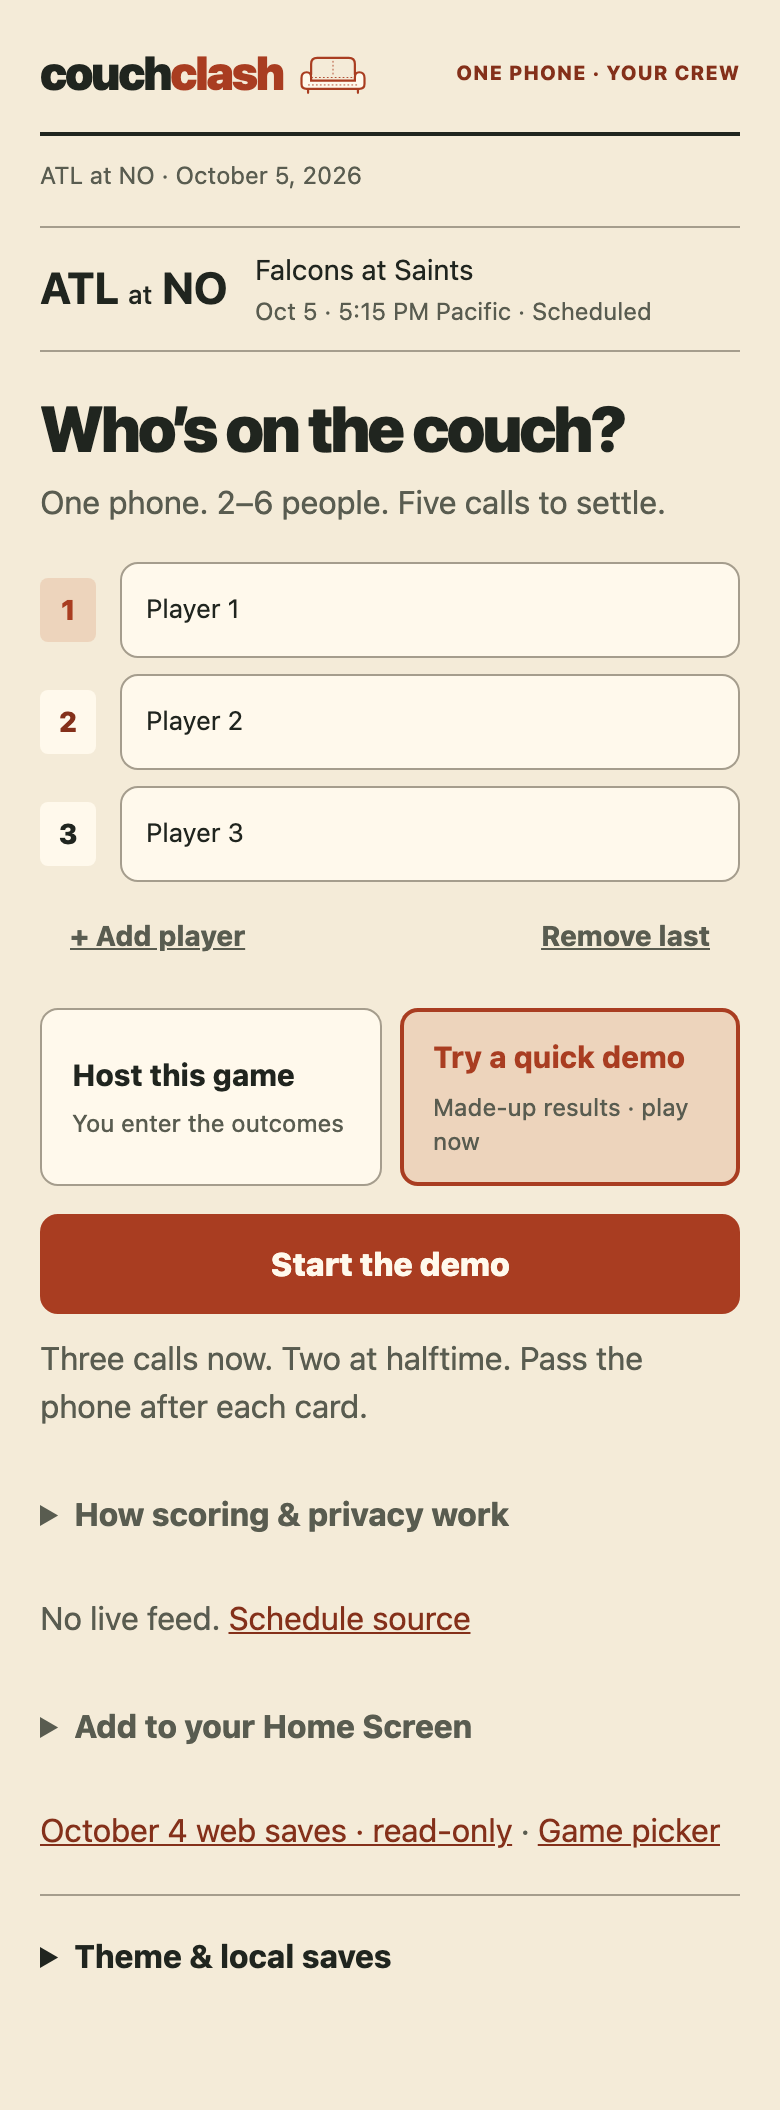
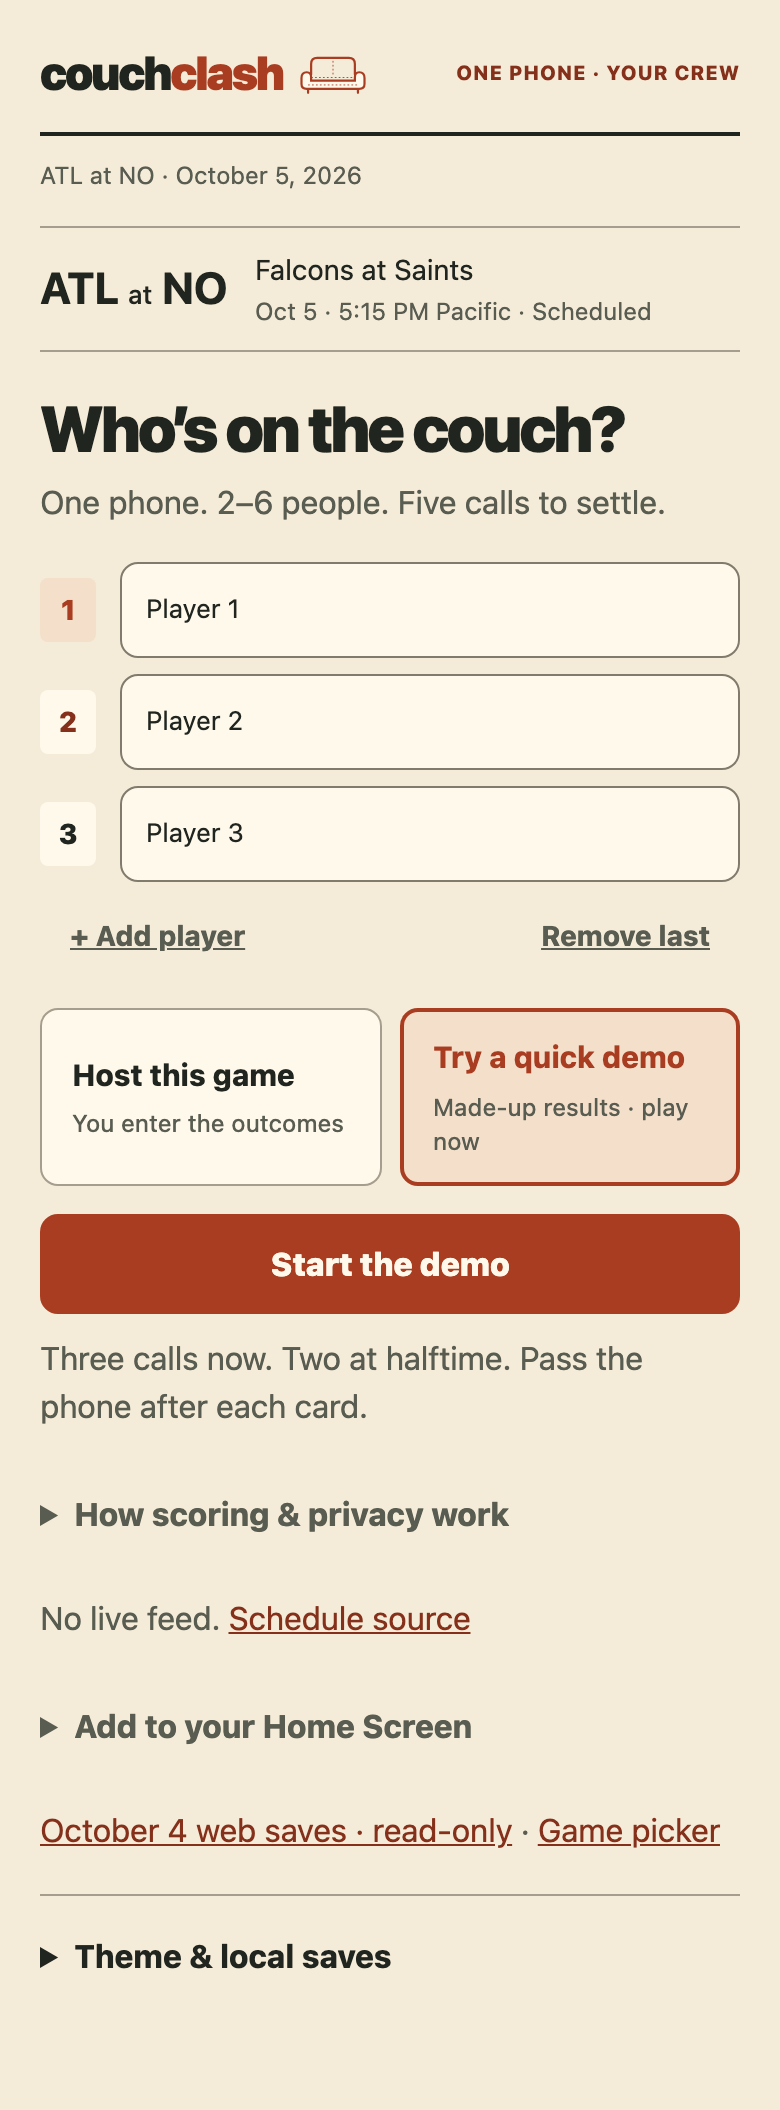
Meet selected and input contrast and preserve navigation redirects

diff --git a/mnf-2026-10-05/style.css b/mnf-2026-10-05/style.css
@@ -23,7 +23,7 @@ main{padding-top:calc(24px + env(safe-area-inset-top));padding-bottom:calc(40px 
 .atl{color:#ff9c9c}.no{color:#eed39d}.cutoff-note{border-left:3px solid var(--blue);padding:12px;background:var(--panel)}.route-link{display:block;text-align:center;text-decoration:none;min-height:48px;padding:15px;border-radius:14px;margin:14px 0;font-weight:800;background:var(--lime);color:var(--bg)}.route-link.secondary{background:var(--panel);color:var(--ink);border:1px solid var(--line)}.legacy-card{border:1px solid var(--line);border-radius:18px;padding:18px;margin:18px 0}.legacy-card p{overflow-wrap:anywhere}.route-link:focus-visible{outline:3px solid var(--blue);outline-offset:4px}a{touch-action:manipulation}
 
 /* Couch scorecard: stitched seat, paper slips, a single clear action. */
-:root{color-scheme:light;--bg:#f4ebd8;--panel:#fff9ec;--ink:#20251f;--muted:#595c50;--lime:#a93d21;--blue:#84301a;--line:#a59d8d;--selected:#edd4bc;--input:#fff9ec;--token:#ddd2bd;--action-ink:#fff9ec;--secondary:#ddd2bd}
+:root{color-scheme:light;--bg:#f4ebd8;--panel:#fff9ec;--ink:#20251f;--muted:#595c50;--lime:#a93d21;--blue:#84301a;--line:#a59d8d;--selected:#f4dfca;--input:#fff9ec;--token:#ddd2bd;--action-ink:#fff9ec;--secondary:#ddd2bd}
 :root[data-theme="seahawks"]{color-scheme:dark;--action-ink:#142012;--secondary:#142b40}
 :root[data-theme="chargers"]{color-scheme:dark;--action-ink:#091b2c;--secondary:#142e47}
 body{font-family:-apple-system,BlinkMacSystemFont,"Segoe UI",sans-serif}body:before{display:none}main{max-width:560px;padding:20px 20px 36px;padding-top:calc(20px + env(safe-area-inset-top));padding-bottom:calc(36px + env(safe-area-inset-bottom))}header{margin-bottom:16px;border-bottom:2px solid var(--ink);padding-bottom:13px;gap:8px}.brand{display:flex;align-items:center;gap:0;font-size:23px;letter-spacing:-1px}.brand .couch-mark{width:35px;height:26px;margin-left:8px;color:var(--lime)}.tag{border:0;border-radius:0;padding:0;font-size:10px;letter-spacing:.3px;white-space:normal;text-align:right}.tag.demo{color:var(--blue)}h1{font-size:38px;letter-spacing:-1.6px;line-height:1.04;margin:18px 0 14px}h2{font-size:24px}.eyebrow,.small{font-size:12px;letter-spacing:.5px;text-transform:none}.intro{font-size:17px}.note,details,.source-note,.question-scope,.football-help p{font-size:16px;line-height:1.5}.preview-label{font-size:12px;letter-spacing:0;text-transform:none;margin:-5px 0 16px}.card,.settlement,.prediction-tile,.recent-recap,.legacy-card{border-radius:8px;box-shadow:none}.card{padding:17px}.primary,.route-link{background:var(--lime);color:var(--action-ink);box-shadow:none;border:1px solid var(--lime);border-radius:9px;min-height:50px}.secondary{background:var(--secondary)}button,input,select{border-radius:9px}button{min-height:48px}.textbtn,.skip{font-size:14px}.selected{border:2px solid var(--lime)!important}.primary:disabled{opacity:1;background:var(--secondary);color:var(--muted);border:1px solid var(--line)}.route-link.secondary{background:var(--secondary)}.danger{color:var(--blue)}.alert{background:var(--panel);color:var(--ink);border:2px solid var(--lime)}.podium{background:none}.token{box-shadow:none;transform:none;border-radius:8px}.fixture .top{padding-top:12px}.fixture .match{padding:12px}.fixture .abbr{font-size:34px}.fixture .team{font-size:14px}.atl,.no{color:var(--ink)}.fixture footer{background:var(--secondary);font-size:14px}.home-seat{text-align:center;height:72px;overflow:hidden}.home-seat .couch-mark{width:115px;height:76px;color:var(--lime)}.fixture-strip{display:flex;align-items:center;gap:14px;border-block:1px solid var(--line);padding:11px 0;margin:8px 0 22px}.fixture-strip strong{font-size:22px;white-space:nowrap}.fixture-strip strong span{font-size:13px;font-weight:500}.fixture-strip div{font-size:14px}.fixture-strip small{display:block;color:var(--muted);font-size:12px;margin-top:2px}.setup-title{font-size:32px;margin:0 0 8px}.setup-intro{font-size:16px;color:var(--muted);margin:0 0 18px}.crew-tools{display:flex;justify-content:space-between;margin:3px 0 12px}.names{gap:8px}.name .avatar{width:28px;height:32px;border-radius:4px;font-size:14px}.modegrid small{font-size:12px}.modegrid button{font-size:15px}.cutoff-note{font-size:14px;padding:10px;margin:14px 0}.steps{margin:16px 0;gap:10px}.step{font-size:11px;text-transform:none;letter-spacing:0}.handoff{padding:15px 0}.handoff-seat{color:var(--lime);margin:20px auto 12px;width:160px}.handoff-seat .couch-mark{width:160px;height:104px}.handoff h1{font-size:40px;overflow-wrap:anywhere}.handoff h1 span{display:block;font-size:20px;letter-spacing:0;font-weight:500;color:var(--muted);margin-bottom:5px}.handoff .intro{max-width:350px;font-size:16px}.handoff .note{font-size:14px}.question{position:relative;border:1px solid var(--line);border-radius:8px;padding:14px;margin:22px 0 18px;background:var(--panel)}.question legend{font-size:20px;line-height:1.2;padding:0 5px;margin:0;max-width:100%;letter-spacing:-.3px}.slip-number{font-size:13px;color:var(--lime);font-variant-numeric:tabular-nums;vertical-align:middle;margin-right:4px}.question-scope{font-size:14px;margin:0 0 7px}.qmeta{margin:0 0 8px;min-height:44px}.qmeta .note{font-size:14px}.boost{font-size:14px}.options button{font-size:16px;min-height:48px}.skip{padding-left:0}.football-help{margin:0;border-top:1px dashed var(--line)}.football-help summary{font-size:14px}.question .football-help p{font-size:16px}.board-heading h1{font-size:31px;margin:10px 0}.source-note{font-size:14px;margin:7px 0 12px}.settlement{padding:10px 12px;margin:12px 0}.settlement-top strong{font-size:20px}.settlement-top .eyebrow{font-size:12px;letter-spacing:0}.call-track{margin:7px 0}.settlement p{font-size:13px}.host-next{padding:0 0 16px}.host-next h2{font-size:21px;margin:12px 0 5px}.host-next p{font-size:15px;margin:6px 0}.host-next .primary{margin-top:5px}.board-list{gap:0;border-top:2px solid var(--ink)}.prediction-tile{border:0;border-bottom:1px solid var(--line);border-radius:0;padding:13px 0;background:transparent}.tile-top{margin:0 0 4px}.call-status{font-size:12px}.prediction-tile h3{font-size:18px;margin:0 0 5px}.prediction-tile .call-outcome{font-size:14px;margin:0 0 5px}.prediction-tile .note{font-size:13px}.revealed-choices summary{font-size:14px}.recap-mark .couch-mark{width:62px;height:46px}.recap-heading h1{font-size:38px}.recap-highlight{border-radius:0;padding:16px}.recap-highlight p,.recap-picks{font-size:16px}.status{font-size:13px}.confirmation-time{font-size:14px}.scoreline{padding:13px 0}.local-tools{margin-top:20px}.local-tools summary{font-size:16px}.recent-recap{margin:16px 0;padding:14px}.recent-recap p{font-size:15px}.brand em{color:var(--lime)}
@@ -32,3 +32,5 @@ body{font-family:-apple-system,BlinkMacSystemFont,"Segoe UI",sans-serif}body:bef
 
 .options button[aria-pressed="true"]::after{content:" · selected";font-size:12px;font-weight:600}.question legend{width:auto}.fixture-strip{flex-wrap:wrap}
 header{flex-wrap:wrap}header .tag{max-width:100%;overflow-wrap:anywhere}.settlement-top{flex-wrap:wrap}.settlement-top strong{white-space:normal}
+
+:root{--control:#817b6e}:root[data-theme="seahawks"]{--control:#7e93a5}:root[data-theme="chargers"]{--control:#819bb1}input,select{border-color:var(--control)}

diff --git a/sw.js b/sw.js
@@ -2,11 +2,11 @@ const CACHE='couch-clash-scorecard-20261005-v2:'+self.registration.scope;
 const ASSETS=["./", "./index.html", "./home.js", "./manifest.webmanifest", "./icons/icon-192.png", "./icons/icon-512.png", "./icons/icon-maskable-512.png", "./icons/apple-touch-icon.png", "./icons/icon.svg", "./mnf-2026-10-05/", "./mnf-2026-10-05/index.html", "./mnf-2026-10-05/definitions.js", "./mnf-2026-10-05/app.js", "./mnf-2026-10-05/engagement.js", "./mnf-2026-10-05/style.css", "./legacy/", "./legacy/index.html", "./legacy/legacy.js"];
 self.addEventListener('install',e=>{e.waitUntil(caches.open(CACHE).then(c=>c.addAll(ASSETS)).then(()=>self.skipWaiting()));});
 self.addEventListener('activate',e=>e.waitUntil(self.clients.claim()));
-async function completeResponse(request){const controller=new AbortController(),timer=setTimeout(()=>controller.abort(),3000);try{const response=await fetch(request,{signal:controller.signal});const body=await response.arrayBuffer();return new Response(body,{status:response.status,statusText:response.statusText,headers:response.headers});}finally{clearTimeout(timer);}}
+async function completeResponse(request){const controller=new AbortController(),timer=setTimeout(()=>controller.abort(),3000);try{const response=await fetch(request,{signal:controller.signal});if(response.type==='opaqueredirect'||response.status===0)return response;const body=await response.arrayBuffer();return new Response(body,{status:response.status,statusText:response.statusText,headers:response.headers});}finally{clearTimeout(timer);}}
 self.addEventListener('fetch',e=>{
  const u=new URL(e.request.url);if(e.request.method!=='GET'||u.origin!==location.origin||!u.href.startsWith(self.registration.scope))return;
  e.respondWith(completeResponse(e.request).catch(async()=>{const c=await caches.open(CACHE);const direct=await c.match(e.request,{ignoreSearch:true});if(direct)return direct;
- if(e.request.mode==='navigate'){const rel=u.pathname.slice(new URL(self.registration.scope).pathname.length);return (await c.match(rel.startsWith('mnf-2026-10-05/')?'./mnf-2026-10-05/index.html':rel.startsWith('legacy/')?'./legacy/index.html':'./index.html'))||Response.error();}return Response.error();}));
+ if(e.request.mode==='navigate'){const rel=u.pathname.slice(new URL(self.registration.scope).pathname.length);return (await c.match((rel==='mnf-2026-10-05'||rel.startsWith('mnf-2026-10-05/'))?'./mnf-2026-10-05/index.html':(rel==='legacy'||rel.startsWith('legacy/'))?'./legacy/index.html':'./index.html'))||Response.error();}return Response.error();}));
 });
 
 self.addEventListener('message',e=>{if(e.data==='COUCH_CACHE_VERSION'&&e.ports[0])e.ports[0].postMessage(CACHE);});

diff --git a/tests/mnf/upgrade-server.py b/tests/mnf/upgrade-server.py
@@ -13,6 +13,8 @@ class Handler(http.server.BaseHTTPRequestHandler):
   path=urllib.parse.unquote(urllib.parse.urlsplit(self.path).path)
   if not path.startswith(a.prefix):self.send_error(404);return
   name=path[len(a.prefix):]
+  if name in ['legacy','mnf-2026-10-05']:
+   self.send_response(301);self.send_header('Location',path+'/');self.end_headers();return
   if not name or name.endswith('/'):name+='index.html'
   body=state['files'].get(name)
   if body is None:self.send_error(404);return

diff --git a/docs/SCORECARD-REVIEW.md b/docs/SCORECARD-REVIEW.md
@@ -17,3 +17,5 @@ Checks: 320/390/1180 widths, first setup action and first board call position, a
 The new cache version preserves old caches/stores. The fetch timeout now extends through reading the response body; a deliberately stalled-body test verifies cache fallback. Upgrade assertions now actually inspect old cache presence and both locked/draft rendered team labels instead of reporting a hardcoded old-cache flag. Earlier failed navigation attempts remain failed attempts, not passes.
 
 Still manual: no connected live feed, shared-phone sync, player fantasy scoring, or authenticated participant ownership. The independent native build and App Store readiness gates are separate.
+
+Independent visual review prompted two bounded fixes: selected fill is now #F4DFCA and input/select boundaries #817B6E in the default theme. Design assertions cover selected text and both boundary surfaces in all three themes. A subsequent code review identified status-zero navigation redirects; the worker now preserves opaque redirect responses, and the fixture exercises real 301 redirects plus slash/no-slash routes online and offline.
